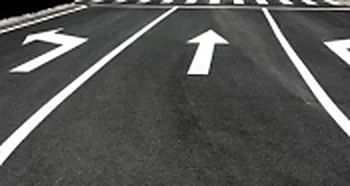
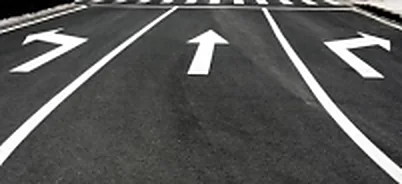
Fix six truncated sign illustrations, cap image display height
06_crop_signs.py scans only the left 24% of each slide for icon
content, assuming every icon fits there. Six don't: two barriers
(both missing their second lamp/post), a bus-stop road marking
(missing its last two symbols), a 3-panel lane-control signal
(missing the third panel), a lane-arrows photo (missing the third
arrow), and a police-signalling-from-a-vehicle photo (missing the
officer's arm — the exact thing the question asks about). Verified
each against the original slide render before recropping by hand
from the raw page raster, using the same 2x/unsharp/webp85
processing 06_crop_signs.py applies.

Separately: QuestionCard's <img> was forced to the card's full
width, which is fine for normal photos but blows a handful of
narrow, tall crops (a traffic-light pole, a standing officer) up
into a blurry, screen-filling mess. Capped by max-height instead,
letting width follow the aspect ratio.

Claude-Session: https://claude.ai/code/session_019YVRc9GACbQA86Qmn8Sdnk

diff --git a/web/src/ui/QuestionCard.tsx b/web/src/ui/QuestionCard.tsx
@@ -165,10 +165,16 @@ export function QuestionCard(props: QuestionCardProps) {
       )}
 
       {question.imageUrl !== undefined && (
+        // Capped by height, not forced to the card's full width: a handful of
+        // these crops (a traffic-light pole, a standing officer) are narrow
+        // and tall, and stretching them to card width blows them up into a
+        // blurry, screen-filling mess. Capping height and letting width
+        // follow the aspect ratio leaves normal wide photos untouched, since
+        // max-w-full binds first for those.
         <img
           src={question.imageUrl}
           alt=""
-          className="w-full rounded-lg border border-slate-200 dark:border-slate-700"
+          className="mx-auto block max-h-[50vh] max-w-full rounded-lg border border-slate-200 dark:border-slate-700"
         />
       )}
 
